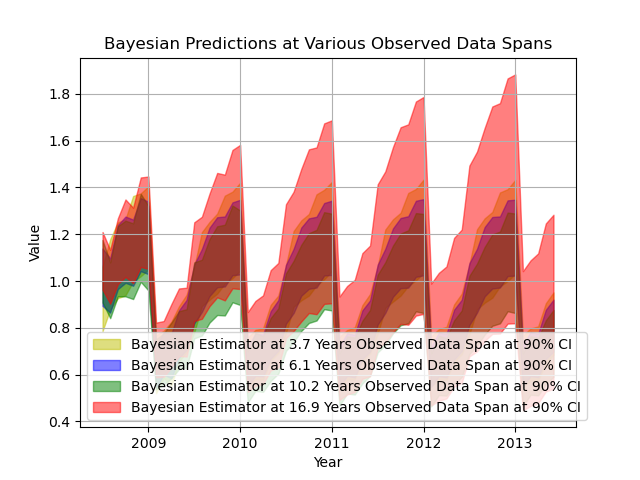
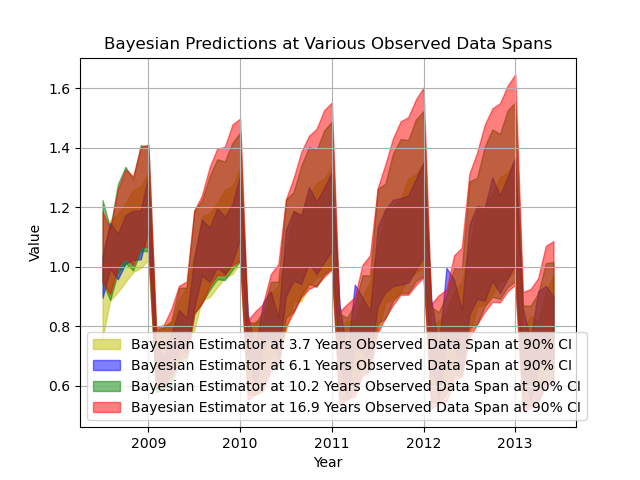
Run with model args 3,0,1,5,1,1,12.

diff --git a/ARIMA/examples/bayesian.py b/ARIMA/examples/bayesian.py
@@ -16,7 +16,7 @@ from ARIMA.examples.utils import load_data, plots_dir, timeit
 from ARIMA.examples import __name__ as __examples__name__
 from torch.distributions.transforms import ExpTransform, AffineTransform
 
-def create_model(obs_idx, num_predictions, observations, model_args=(3, 0, 1, 0, 1, 2, 12)):
+def create_model(obs_idx, num_predictions, observations, model_args=(3, 0, 1, 5, 1, 1, 12)):
     # Create model with non-overlapping observed and predicted sample indices.
     predict_idx = [*range(max(obs_idx) + 1 + num_predictions)]
     predict_idx = [idx for idx in predict_idx if idx not in obs_idx]
